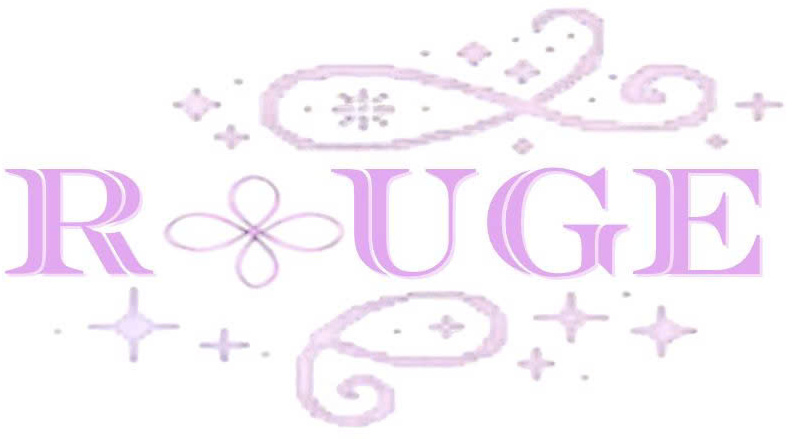
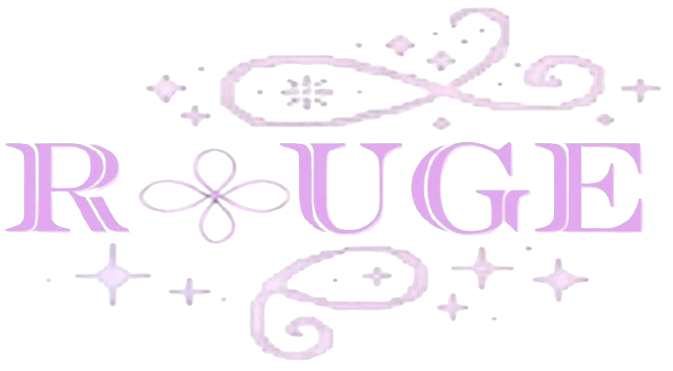
feat: enhance footer layout and add disclaimer section

diff --git a/frontend/app/page.tsx b/frontend/app/page.tsx
@@ -205,7 +205,7 @@ export default function Home() {
         </>
       )}
 
-      <footer><span className="brand"><span className="brand-mark">R</span><span>ROUGE</span></span><span className="footer-text">Beauty lives forever.</span><span className="footer-text">© 2026 Rouge Beauty Studio</span></footer>
+      <footer><div className="footer-main"><span className="brand"><img className="brand-logo" src="/logo.png" alt="" /><img className="brand-name" src="/brand_name.png" alt="ROUGE" /></span><span className="footer-text">BEAUTY LIVES FOREVER</span><span className="footer-text">© 2026 Rouge Beauty Studio</span></div><div className="footer-disclaimer"><strong>TUYÊN BỐ MIỄN TRỪ TRÁCH NHIỆM</strong><p>Trang web này được xây dựng nhằm phục vụ dự án bài tập cuối kỳ học phần Lý luận truyền thông. Toàn bộ thương hiệu, sản phẩm, hình ảnh quảng cáo và thông tin được trình bày trên trang web đều mang tính giả tưởng, được sáng tạo nhằm mục đích học tập và mô phỏng hoạt động truyền thông, không đại diện cho bất kỳ hoạt động kinh doanh thương mại thực tế nào.</p><p>Mọi thắc mắc hoặc yêu cầu liên quan đến dự án, vui lòng liên hệ:<br />Email: <a href="mailto:2656330008@hcmussh.edu.vn">2656330008@hcmussh.edu.vn</a></p></div></footer>
 
       {showCart && <CartDrawer cart={cart} total={total} onClose={() => setShowCart(false)} onQuantity={updateQuantity} onRemove={(productId, variantId) => setCart((current) => current.filter((item) => item.product.id !== productId || item.variant.id !== variantId))} onCheckout={() => { setShowCart(false); setShowCheckout(true); }} />}
       {showCheckout && <CheckoutModal cart={cart} total={total} onClose={() => setShowCheckout(false)} onSuccess={(emailSent) => { setCart([]); setShowCheckout(false); setNotice(emailSent ? "Đặt hàng thành công! Email xác nhận đã được gửi." : "Đặt hàng thành công! Email xác nhận chưa gửi được."); window.setTimeout(() => setNotice(""), 3500); }} />}

diff --git a/frontend/app/globals.css b/frontend/app/globals.css
@@ -863,6 +863,10 @@ footer {
     color: #c8babb;
     min-height: 100px;
     padding: 30px 7vw;
+    text-align: center;
+}
+
+.footer-main {
     display: flex;
     align-items: center;
     justify-content: space-between;
@@ -871,6 +875,44 @@ footer {
 
 .footer-text {
     font-size: 14px;
+}
+
+.footer-disclaimer {
+    max-width: 768px;
+    margin: 20px auto 0;
+    padding: 20px 0 0;
+    border-top: 1px solid rgba(255, 255, 255, .1);
+    color: #999094;
+    font-size: 12px;
+    line-height: 1.6;
+}
+
+.footer-disclaimer strong {
+    display: block;
+    margin-bottom: 8px;
+    color: #e5e1e2;
+    font-size: 12px;
+    font-weight: 600;
+    letter-spacing: 1px;
+    text-transform: uppercase;
+}
+
+.footer-disclaimer p {
+    margin: 0;
+}
+
+.footer-disclaimer p + p {
+    margin-top: 8px;
+    color: #d7d1d3;
+}
+
+.footer-disclaimer a {
+    color: inherit;
+    text-decoration: underline;
+}
+
+.footer-disclaimer a:hover {
+    color: #fff;
 }
 
 footer .brand {
@@ -1409,10 +1451,15 @@ footer .brand {
         font-size: 38px;
     }
 
-    footer {
+    .footer-main {
         flex-direction: column;
-        gap: 15px;
+        gap: 12px;
         text-align: center;
+    }
+
+    .footer-disclaimer {
+        padding-right: 16px;
+        padding-left: 16px;
     }
 }
 
